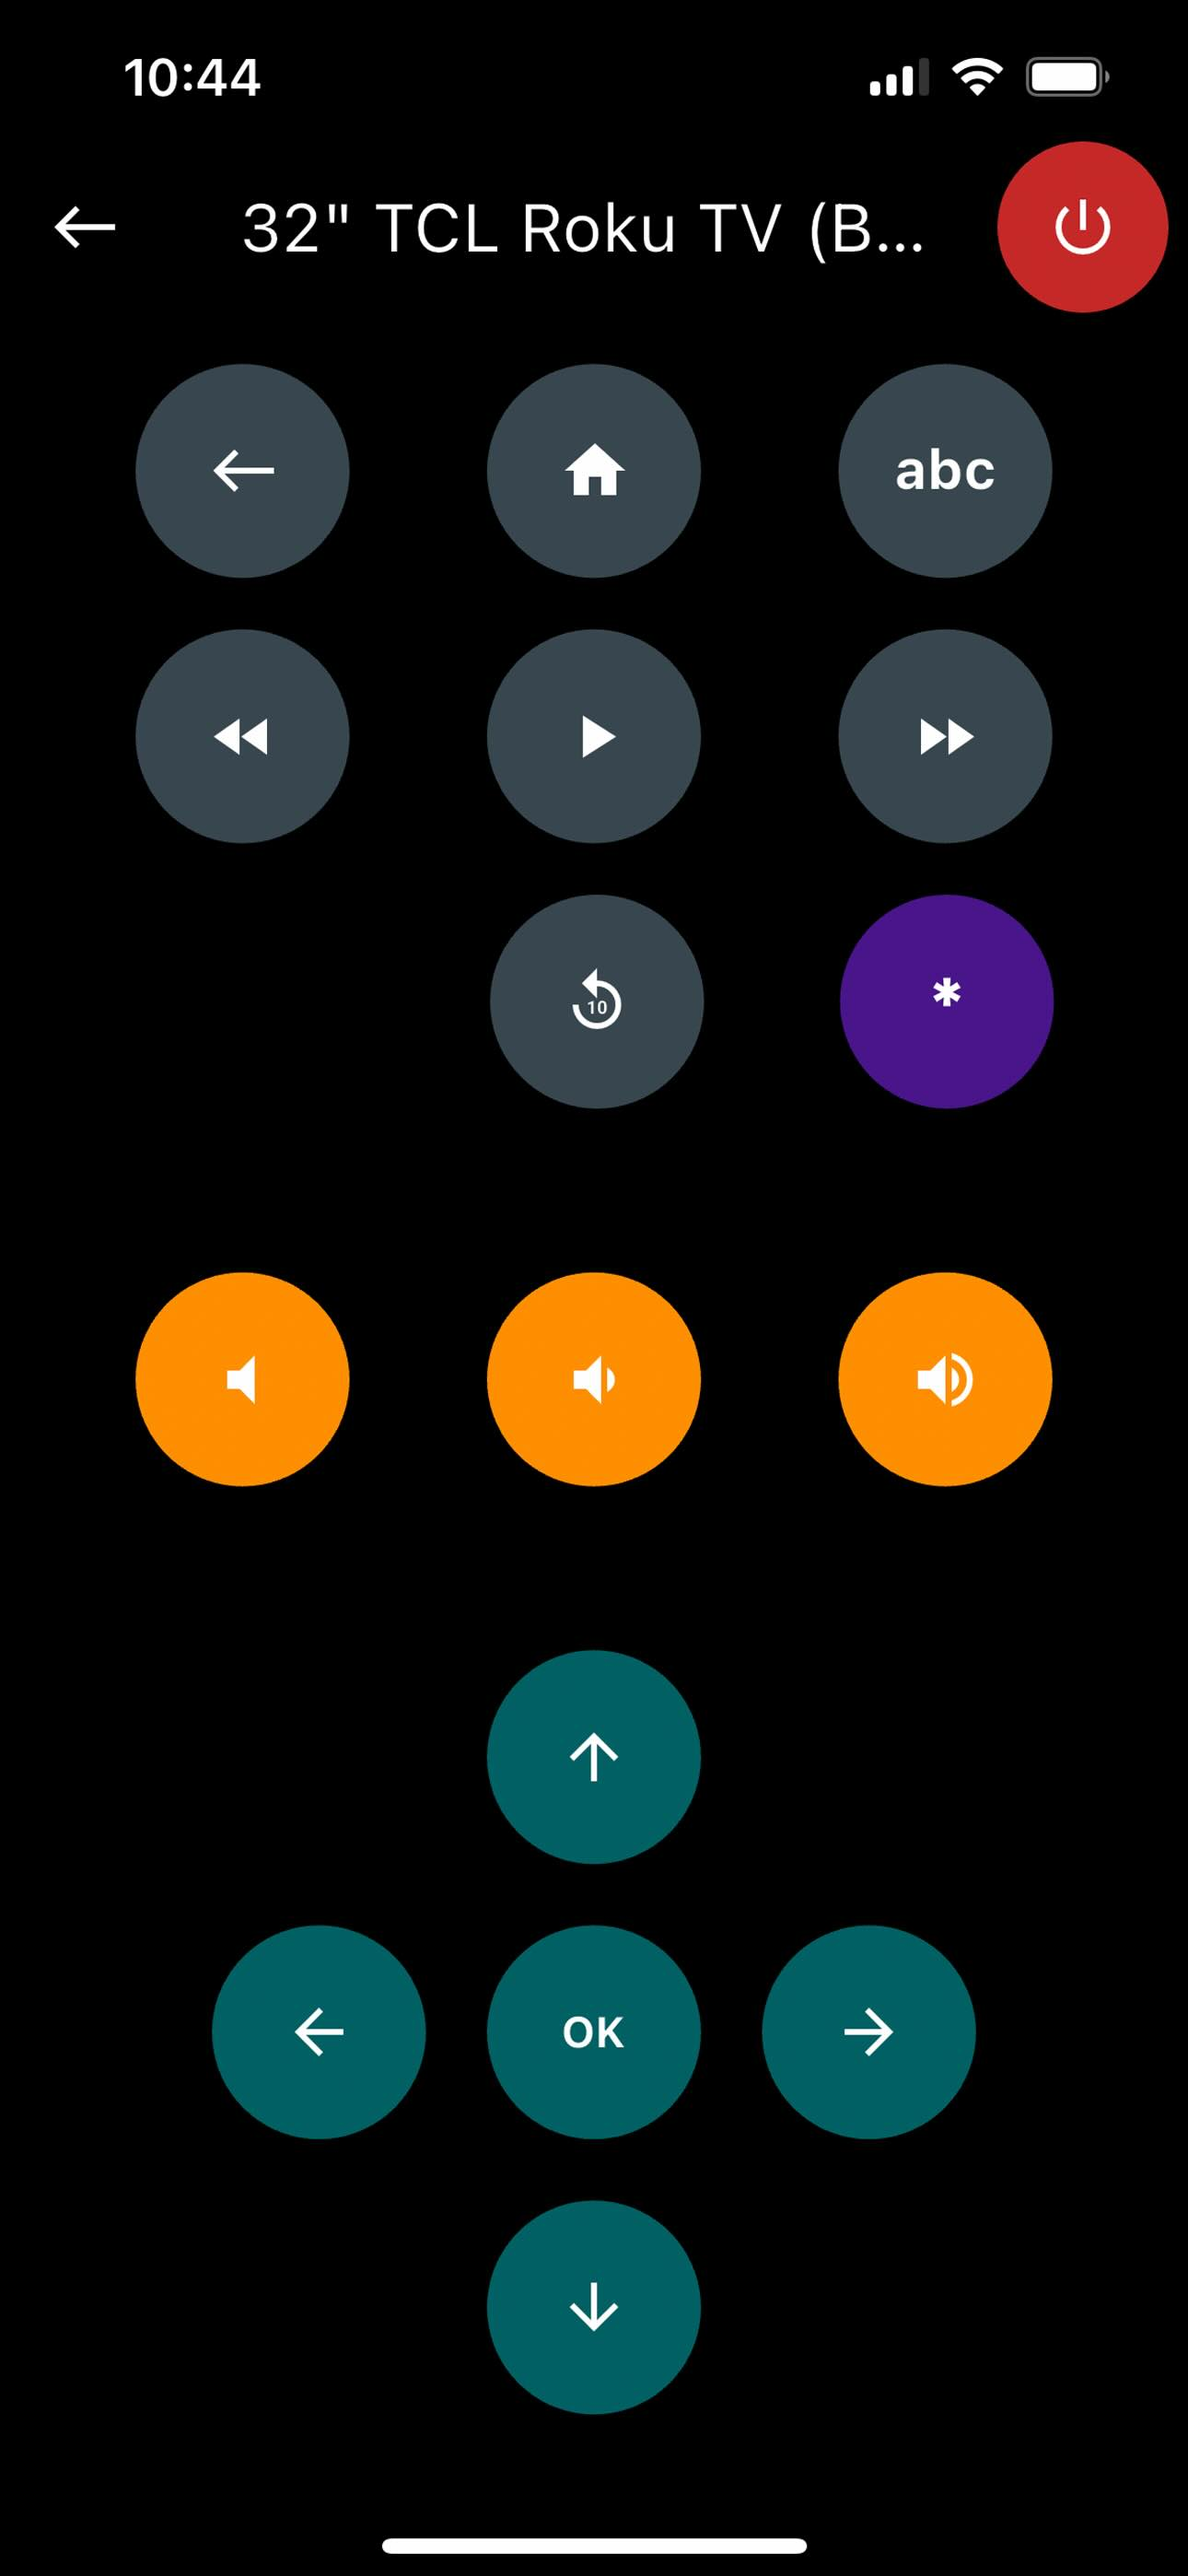
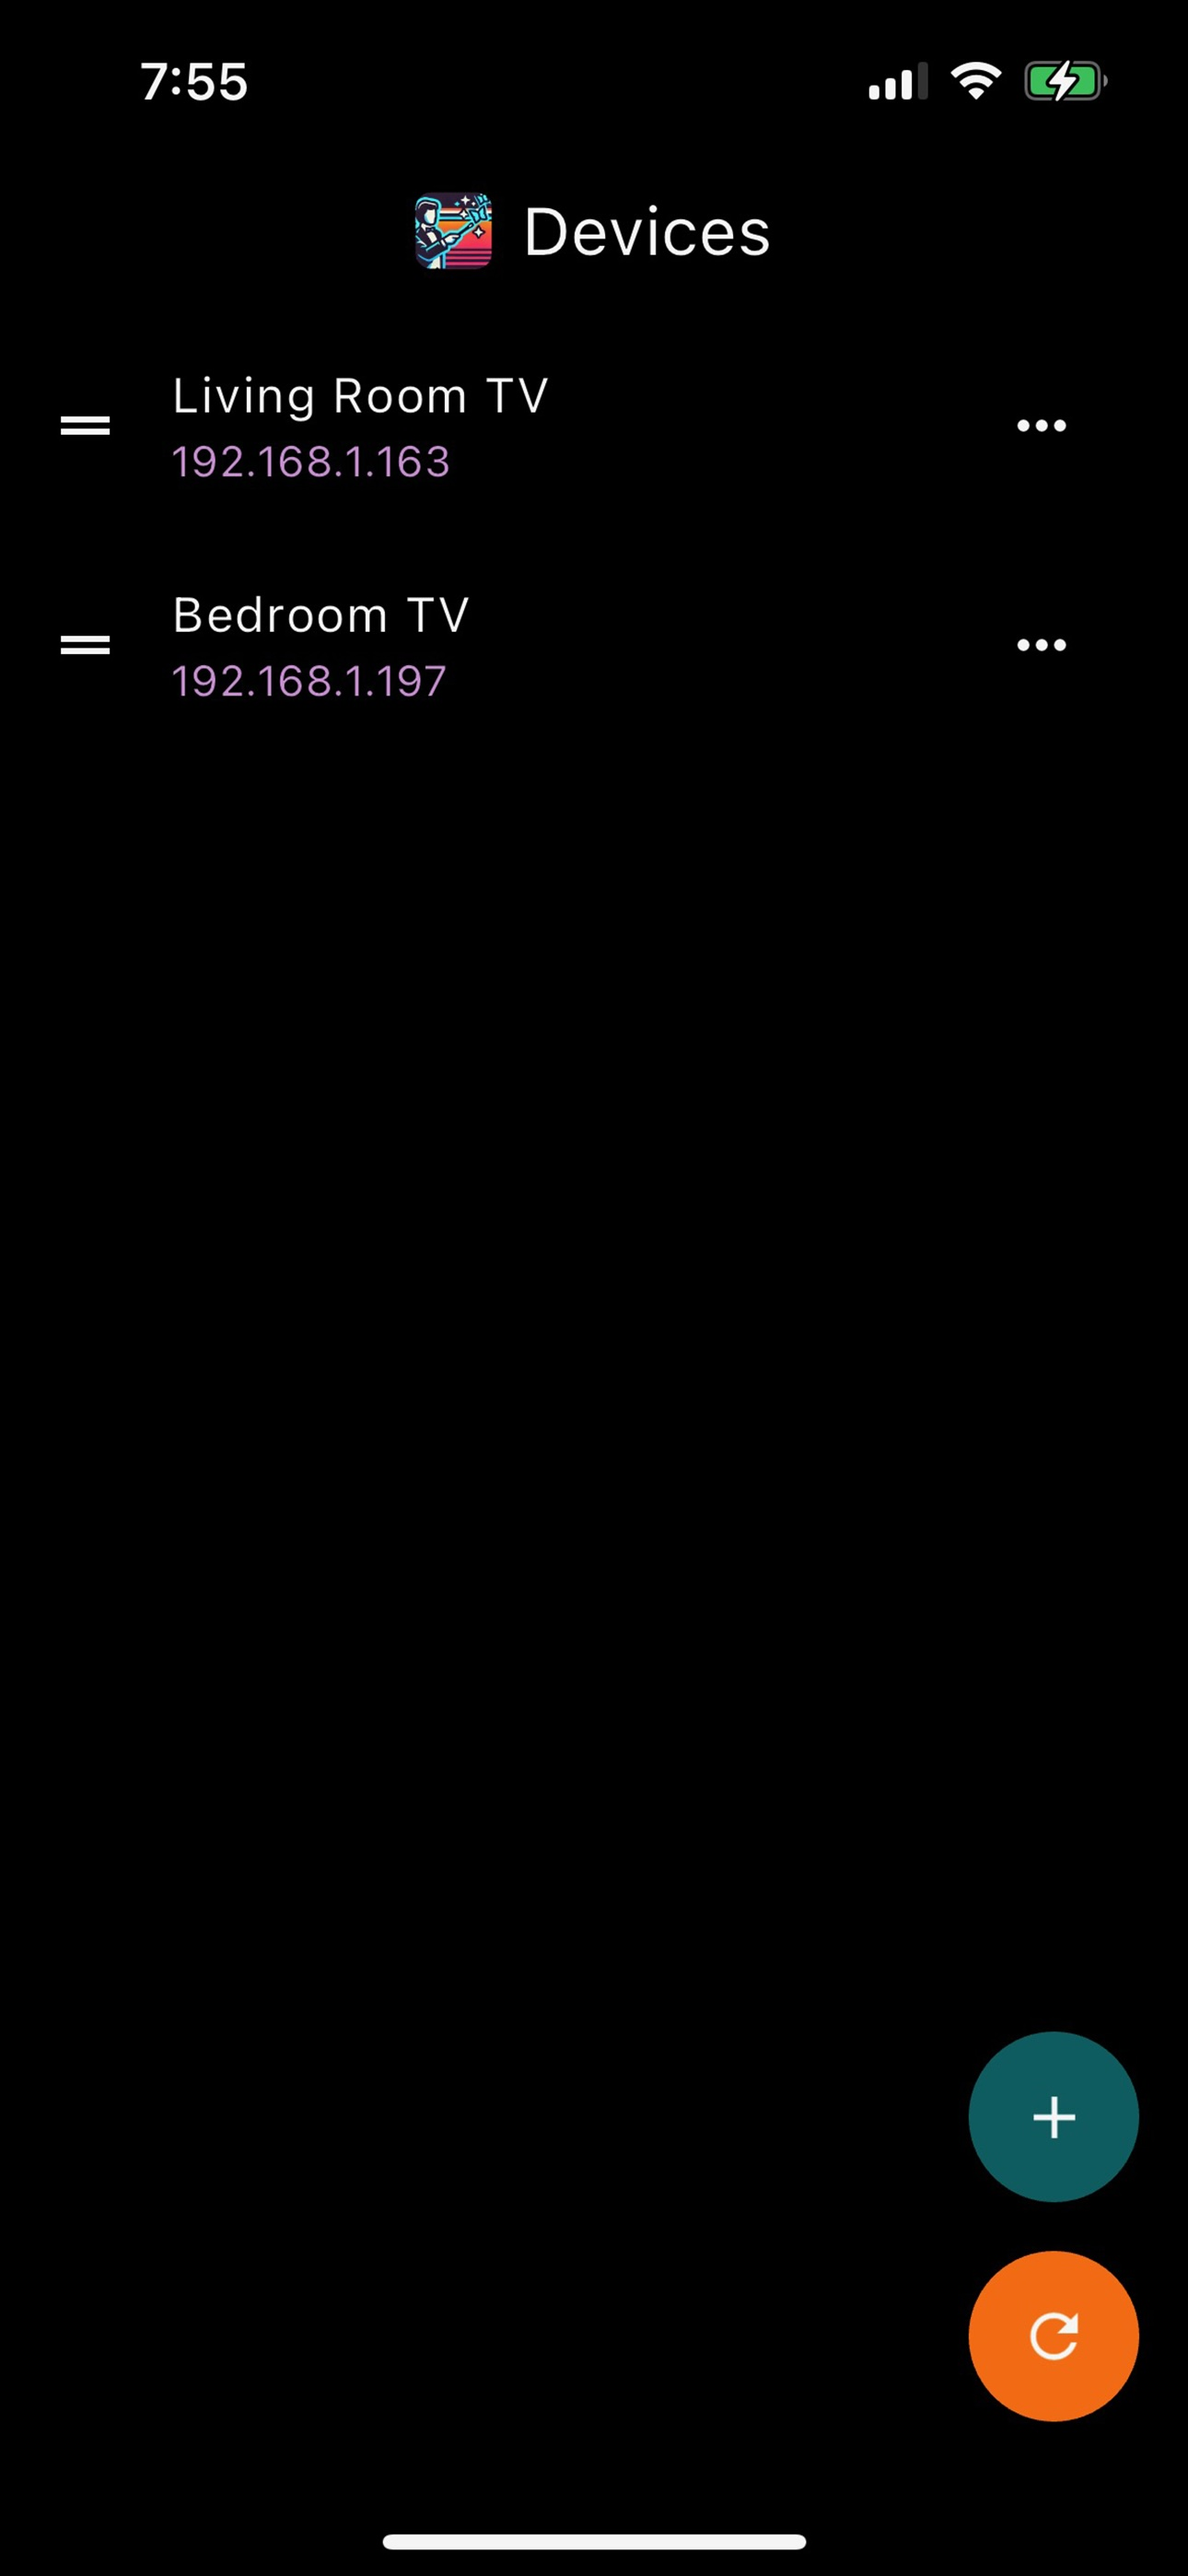
Demo & style updates

diff --git a/flutter/lib/remote_control_screen.dart b/flutter/lib/remote_control_screen.dart
@@ -261,7 +261,26 @@ class _RemoteControlScreenState extends State<RemoteControlScreen> {
   Widget build(BuildContext context) {
     return Scaffold(
       appBar: AppBar(
-        title: Text('📺 ${widget.device.name}'),
+        title: Row(
+          mainAxisAlignment: MainAxisAlignment.center,
+          children: [
+            Container(
+              width: 25,
+              height: 25,
+              child: ClipRRect(
+                borderRadius: BorderRadius.circular(5),
+                child: Image.asset(
+                  'assets/icon/remotely.png',
+                  width: 25,
+                  height: 25,
+                  fit: BoxFit.cover,
+                ),
+              ),
+            ),
+            SizedBox(width: 10),
+            Text(widget.device.name),
+          ],
+        ),
         leading: _isRecording
             ? _buildBlinkingStopButton()
             : IconButton(
@@ -316,14 +335,22 @@ class _RemoteControlScreenState extends State<RemoteControlScreen> {
                         child: Row(
                           mainAxisAlignment: MainAxisAlignment.spaceEvenly,
                           children: [
+                            if (_isRecording)
+                              SizedBox(width: 74),
+                            if (!_isRecording)
+                              RemoteButton(
+                                onPressed: _showMacroDrawer,
+                                child: const Icon(Icons.bolt),
+                                backgroundColor: Colors.cyan[900],
+                              ),
                             RemoteButton(
-                              onPressed: () => _sendCommand('Back'),
-                              child: const Icon(Icons.west),
+                              onPressed: () => _sendCommand('InstantReplay'),
+                              child: const Icon(Icons.replay_10),
                             ),
-                            RemoteButton(onPressed: () => _sendCommand('Home'), child: const Icon(Icons.home)),
                             RemoteButton(
-                              onPressed: () => _showTextInputBottomSheet(context),
-                              child: const Text('abc', style: TextStyle(fontSize: 18, fontWeight: FontWeight.bold)),
+                              onPressed: () => _sendCommand('Info'),
+                              child: const Icon(Icons.settings),
+                              backgroundColor: Colors.cyan[900],
                             ),
                           ],
                         ),
@@ -335,27 +362,6 @@ class _RemoteControlScreenState extends State<RemoteControlScreen> {
                             RemoteButton(onPressed: () => _sendCommand('Rev'), child: const Icon(Icons.fast_rewind)),
                             RemoteButton(onPressed: () => _sendCommand('Play'), child: const Icon(Icons.play_arrow)),
                             RemoteButton(onPressed: () => _sendCommand('Fwd'), child: const Icon(Icons.fast_forward)),
-                          ],
-                        ),
-                      ),
-                      Expanded(
-                        child: Row(
-                          mainAxisAlignment: MainAxisAlignment.spaceEvenly,
-                          children: [
-                            RemoteButton(
-                              onPressed: _isRecording ? null : _showMacroDrawer,
-                              child: const Icon(Icons.bolt),
-                              backgroundColor: Colors.cyan[900],
-                            ),
-                            RemoteButton(
-                              onPressed: () => _sendCommand('InstantReplay'),
-                              child: const Icon(Icons.replay_10),
-                            ),
-                            RemoteButton(
-                              onPressed: () => _sendCommand('Info'),
-                              child: const Icon(Icons.settings),
-                              backgroundColor: Colors.cyan[900],
-                            ),
                           ],
                         ),
                       ),
@@ -377,6 +383,22 @@ class _RemoteControlScreenState extends State<RemoteControlScreen> {
                               onPressed: () => _sendCommand('VolumeUp'),
                               child: const Icon(Icons.volume_up),
                               backgroundColor: Colors.amber[900],
+                            ),
+                          ],
+                        ),
+                      ),
+                      Expanded(
+                        child: Row(
+                          mainAxisAlignment: MainAxisAlignment.spaceEvenly,
+                          children: [
+                            RemoteButton(
+                              onPressed: () => _sendCommand('Back'),
+                              child: const Icon(Icons.west),
+                            ),
+                            RemoteButton(onPressed: () => _sendCommand('Home'), child: const Icon(Icons.home)),
+                            RemoteButton(
+                              onPressed: () => _showTextInputBottomSheet(context),
+                              child: const Text('abc', style: TextStyle(fontSize: 18, fontWeight: FontWeight.bold)),
                             ),
                           ],
                         ),

diff --git a/flutter/lib/main.dart b/flutter/lib/main.dart
@@ -186,7 +186,28 @@ class _DeviceListScreenState extends State<DeviceListScreen> {
   Widget build(BuildContext context) {
     return Scaffold(
       appBar: AppBar(
-        title: const Text('Select Device'),
+        title: Row(
+          mainAxisAlignment: MainAxisAlignment.center,
+          children: [
+            SizedBox(width: 40),
+            Container(
+              width: 25,
+              height: 25,
+              child: ClipRRect(
+                borderRadius: BorderRadius.circular(5),
+                child: Image.asset(
+                  'assets/icon/remotely.png',
+                  width: 25,
+                  height: 25,
+                  fit: BoxFit.cover,
+                ),
+              ),
+            ),
+            SizedBox(width: 10),
+            Text('Devices'),
+            SizedBox(width: 40),
+          ],
+        ),
       ),
       body: Column(
         children: [
@@ -211,13 +232,13 @@ class _DeviceListScreenState extends State<DeviceListScreen> {
                           index: index,
                           child: Icon(Icons.drag_handle),
                         ),
-                        title: Text('📺 ${device.name}'),
+                        title: Text('${device.name}'),
                         subtitle: Padding(
                           padding: EdgeInsets.only(),
                           child: Text(
                             '${device.ip}',
                             style: TextStyle(
-                              color: Colors.pink[200],
+                              color: Colors.purple[200],
                             )
                           ),
                         ),
